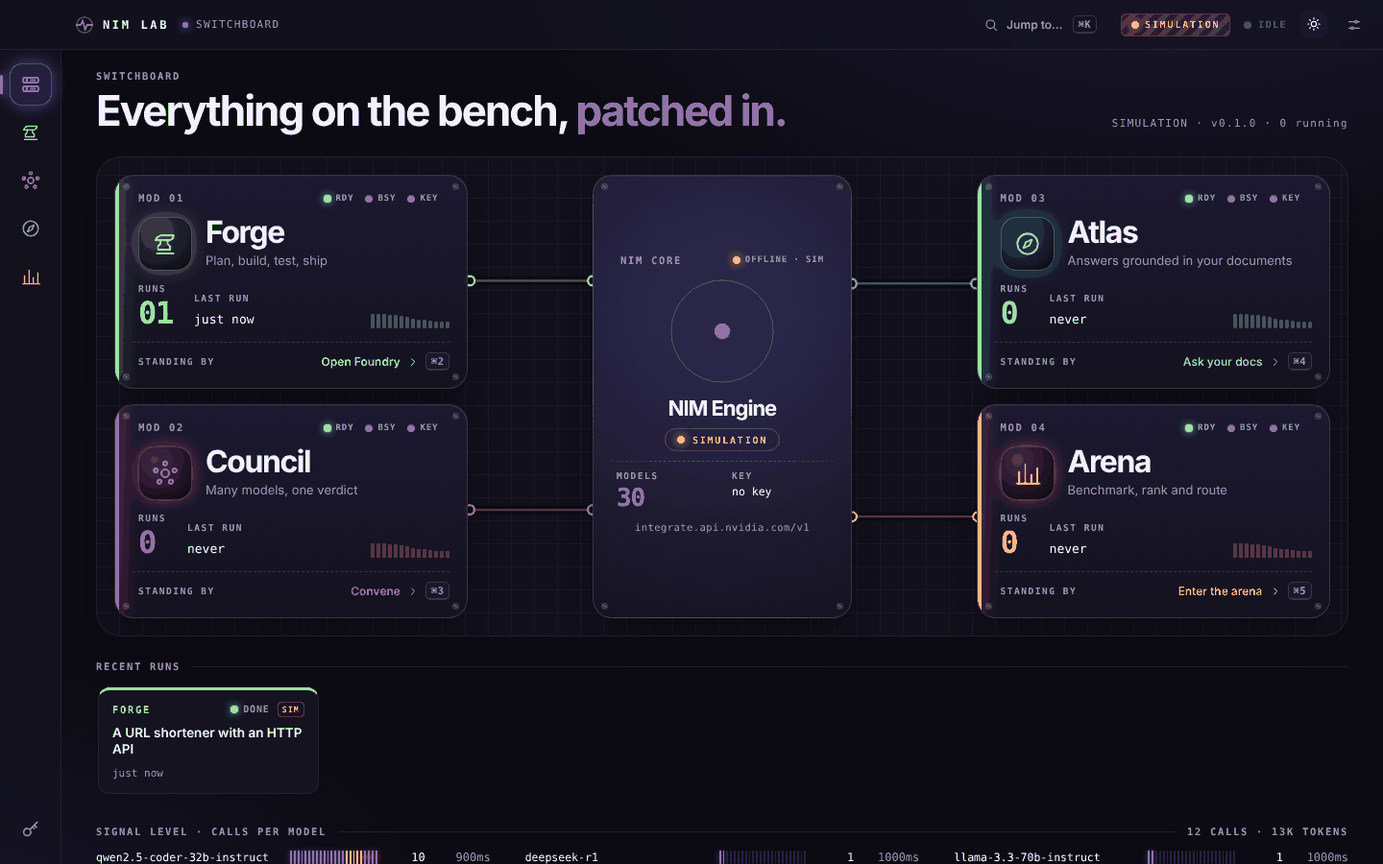
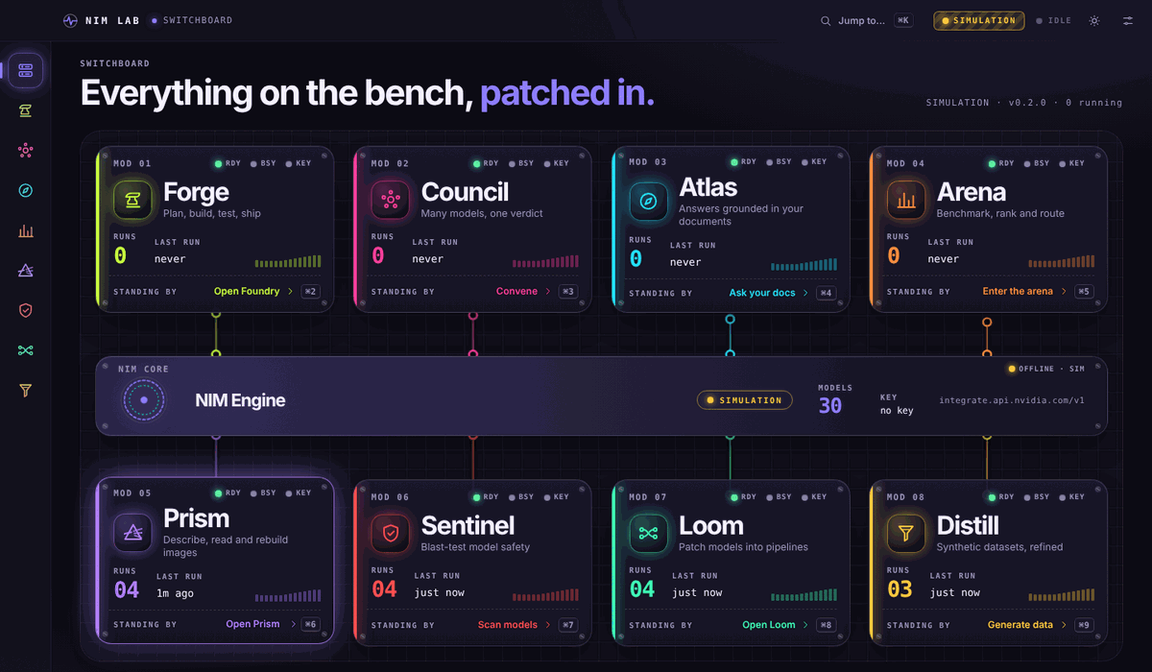
Release 0.2.0: Prism, Sentinel, Loom and Distill in NIM Lab Studio
Wire the four new tools into the CLI and Studio (routers, app
registry, rail, palette, two-tier switchboard), bundle their data
in wheels and the macOS app, and add CHANGELOG and README updates.

Claude-Session: https://claude.ai/code/session_0152s8zFZBhJaSSpKXr7uJ3b

diff --git a/src/nimlab/studio/web/css/screens/switchboard.css b/src/nimlab/studio/web/css/screens/switchboard.css
@@ -4,7 +4,7 @@
 .sb-h h1 em { font-style: normal; color: var(--c-core); }
 .sb-sub { font-size: 11px; letter-spacing: .12em; color: var(--dim); }
 .rack { position: relative; padding: 18px; border-radius: 26px; background: repeating-linear-gradient(0deg, transparent 0 23px, var(--grid-line) 23px 24px), repeating-linear-gradient(90deg, transparent 0 23px, var(--grid-line) 23px 24px), color-mix(in srgb, var(--panel) 60%, transparent); border: 1px solid var(--hair); }
-.rack-grid { position: relative; z-index: 2; display: grid; gap: 16px clamp(64px, 9vw, 140px); grid-template-columns: 1fr minmax(210px, 270px) 1fr; grid-template-areas: "a core c" "b core d"; }
+.rack-grid { position: relative; z-index: 2; display: grid; gap: clamp(40px, 6vh, 60px) clamp(14px, 1.6vw, 24px); grid-template-columns: repeat(4, minmax(0, 1fr)); grid-template-areas: "a b c d" "core core core core" "e f g h"; }
 .cables { position: absolute; inset: 0; width: 100%; height: 100%; z-index: 1; pointer-events: none; overflow: visible; }
 .cab-base { fill: none; stroke: var(--ink); stroke-width: 9; stroke-linecap: round; opacity: .85; }
 .cab-core { fill: none; stroke-width: 2.2; opacity: .5; stroke-linecap: round; }
@@ -13,7 +13,7 @@
 @keyframes flow { to { stroke-dashoffset: -50; } }
 .plug { fill: var(--ink); stroke-width: 2.5; }
 
-.module { --pad: 18px; position: relative; text-align: left; display: grid; gap: 14px; padding: var(--pad); border-radius: 20px; color: var(--text); background: linear-gradient(180deg, color-mix(in srgb, var(--raised) 94%, transparent), color-mix(in srgb, var(--panel) 96%, transparent)); border: 1px solid var(--hair-2); box-shadow: var(--shadow), 0 0 0 0 var(--accent); transition: transform .45s var(--ease-spring), box-shadow .3s, border-color .3s; overflow: hidden; }
+.module { --pad: 14px 16px; position: relative; text-align: left; display: grid; gap: 10px; padding: var(--pad); border-radius: 20px; color: var(--text); background: linear-gradient(180deg, color-mix(in srgb, var(--raised) 94%, transparent), color-mix(in srgb, var(--panel) 96%, transparent)); border: 1px solid var(--hair-2); box-shadow: var(--shadow), 0 0 0 0 var(--accent); transition: transform .45s var(--ease-spring), box-shadow .3s, border-color .3s; overflow: hidden; }
 .module::before { content: ""; position: absolute; left: 0; top: 0; bottom: 0; width: 4px; background: var(--accent); box-shadow: 0 0 18px var(--accent); }
 .module:hover { transform: translateY(-3px); border-color: color-mix(in srgb, var(--accent) 70%, var(--hair-2)); box-shadow: var(--shadow), 0 0 40px -10px var(--accent); }
 .module:active { transform: translateY(0) scale(.99); }
@@ -21,34 +21,34 @@
 .m-top { display: flex; justify-content: space-between; align-items: center; padding: 0 12px 0 6px; }
 .leds { display: flex; gap: 12px; } .lg { display: inline-flex; gap: 5px; align-items: center; } .lg .label { font-size: 9px; letter-spacing: .1em; }
 .m-main { display: flex; gap: 14px; align-items: center; padding-left: 6px; }
-.bezel { width: 56px; height: 56px; border-radius: 16px; display: grid; place-items: center; color: var(--accent); flex: none; background: radial-gradient(circle at 30% 25%, color-mix(in srgb, var(--accent) 22%, var(--raised)), var(--ink)); box-shadow: inset 0 0 0 1px color-mix(in srgb, var(--accent) 45%, transparent), inset 0 -6px 12px rgba(0,0,0,.25), 0 0 20px -6px var(--accent); }
-.bezel svg { width: 30px; height: 30px; }
+.bezel { width: 48px; height: 48px; border-radius: 14px; display: grid; place-items: center; color: var(--accent); flex: none; background: radial-gradient(circle at 30% 25%, color-mix(in srgb, var(--accent) 22%, var(--raised)), var(--ink)); box-shadow: inset 0 0 0 1px color-mix(in srgb, var(--accent) 45%, transparent), inset 0 -6px 12px rgba(0,0,0,.25), 0 0 20px -6px var(--accent); }
+.bezel svg { width: 27px; height: 27px; }
 .module h2 { font: 700 clamp(24px, 2.4vw, 32px)/1 var(--font-ui); letter-spacing: -.045em; }
-.module p { color: var(--dim); font-size: 13px; margin-top: 4px; }
+.module p { color: var(--dim); font-size: 12.5px; margin-top: 3px; line-height: 1.3; }
 .m-stats { display: grid; grid-template-columns: auto auto 1fr; gap: 22px; align-items: end; padding-left: 6px; }
 .m-stats .label { display: block; margin-bottom: 5px; font-size: 9.5px; }
 .m-stats .num { font-size: 13px; }
-.num.big { font-size: 32px; font-weight: 700; line-height: 1; letter-spacing: -.04em; color: var(--accent); }
+.num.big { font-size: 28px; font-weight: 700; line-height: 1; letter-spacing: -.04em; color: var(--accent); }
 .m-stats .vu { justify-self: end; }
-.m-foot { display: flex; justify-content: space-between; align-items: center; padding: 10px 0 0 6px; border-top: 1px dashed var(--hair-2); }
+.m-foot { display: flex; justify-content: space-between; align-items: center; padding: 8px 0 0 6px; border-top: 1px dashed var(--hair-2); }
 .m-foot .label { font-size: 9.5px; }
 .go { display: inline-flex; gap: 6px; align-items: center; font-size: 12px; font-weight: 600; color: var(--accent); }
 .go svg { width: 14px; height: 14px; transition: transform .3s var(--ease-spring); } .module:hover .go svg { transform: translateX(4px); }
 .module .jack { display: none; }
 
-.module.core { grid-area: core; align-content: center; justify-items: center; text-align: center; gap: 10px; --accent: var(--c-core); padding-bottom: 22px; background: radial-gradient(circle at 50% 30%, color-mix(in srgb, var(--c-core) 16%, var(--raised)), var(--panel)); }
+.module.core { grid-area: core; display: flex; flex-wrap: wrap; align-items: center; justify-content: space-between; gap: 2px 32px; --accent: var(--c-core); padding: 10px 28px 12px; text-align: left; background: radial-gradient(circle at 12% 50%, color-mix(in srgb, var(--c-core) 16%, var(--raised)), var(--panel)); }
 .module.core::before { display: none; }
-.module.core .m-top { width: 100%; padding: 0 10px; }
-.core-dial { width: 118px; height: 118px; color: var(--text); filter: drop-shadow(0 0 18px color-mix(in srgb, var(--c-core) 55%, transparent)); }
-.core-dial .ring { transform-origin: 60px 60px; animation: spin 16s linear infinite; } .core-dial .r2 { animation-duration: 9s; animation-direction: reverse; }
+.module.core .m-top { width: 100%; padding: 0; }
+.core-dial { width: 64px; height: 64px; color: var(--text); filter: drop-shadow(0 0 14px color-mix(in srgb, var(--c-core) 55%, transparent)); }
+.core-dial .ring { opacity: 1; transform-origin: 60px 60px; animation: spin 16s linear infinite; } .core-dial .r2 { animation-duration: 9s; animation-direction: reverse; }
 @keyframes spin { to { transform: rotate(360deg); } }
-.module.core h2 { font-size: 22px; }
+.module.core h2 { font-size: 22px; margin-right: auto; }
 .mode { display: inline-flex; align-items: center; gap: 8px; height: 24px; padding: 0 12px; border-radius: 999px; font: 700 10px var(--font-mono); letter-spacing: .18em; border: 1px solid var(--hair-2); }
 .mode.live { color: var(--ok); border-color: color-mix(in srgb, var(--ok) 50%, transparent); } .mode.sim { color: var(--warn); border-color: color-mix(in srgb, var(--warn) 50%, transparent); }
-.core-stats { display: grid; grid-template-columns: 1fr 1fr; gap: 20px; width: 100%; text-align: left; padding: 10px 6px 0; border-top: 1px dashed var(--hair-2); }
+.core-stats { display: flex; gap: 34px; align-items: flex-end; }
 .core-stats .label { display: block; margin-bottom: 4px; font-size: 9.5px; } .core-stats .num.big { font-size: 26px; color: var(--c-core); }
-.module.core > .mono { font-size: 10.5px; letter-spacing: .04em; }
-.core-stats code { font-size: 11.5px; color: var(--text); word-break: break-all; line-height: 1.3; display: block; }
+.module.core > .mono { font-size: 10.5px; letter-spacing: .04em; max-width: 240px; overflow: hidden; text-overflow: ellipsis; white-space: nowrap; }
+.core-stats code { font-size: 11.5px; color: var(--text); line-height: 1.3; display: block; }
 
 .sb-sec { display: grid; gap: 12px; }
 .sec-h { display: flex; align-items: center; gap: 12px; } .sec-h .rule { flex: 1; height: 1px; background: var(--hair); }
@@ -67,13 +67,22 @@
 .vu-bar i { border-radius: 2px; background: var(--raised-2); transition: background .3s var(--d), box-shadow .3s var(--d); }
 .vu-bar i.on { background: var(--c-core); box-shadow: 0 0 6px color-mix(in srgb, var(--c-core) 60%, transparent); } .vu-bar i.mid { background: var(--c-arena); box-shadow: 0 0 6px color-mix(in srgb, var(--c-arena) 60%, transparent); } .vu-bar i.hot { background: var(--c-council); box-shadow: 0 0 6px color-mix(in srgb, var(--c-council) 70%, transparent); }
 
+@media (max-width: 1280px) {
+  .module { --pad: 14px; gap: 11px; }
+  .bezel { width: 46px; height: 46px; border-radius: 14px; } .bezel svg { width: 26px; height: 26px; }
+  .module p { font-size: 12px; } .m-stats { gap: 16px; } .m-stats .vu { display: none; } .num.big { font-size: 26px; }
+  .m-top .leds .lg .label { display: none; } .go kbd { display: none; }
+}
 @media (max-width: 1060px) {
-  .rack-grid { grid-template-columns: 1fr 1fr; grid-template-areas: "core core" "a c" "b d"; row-gap: 56px; column-gap: 18px; }
-  .module.core { display: flex; flex-wrap: wrap; align-items: center; justify-content: space-between; gap: 8px 28px; padding: 14px 22px; text-align: left; }
-  .module.core .m-top { width: 100%; order: -1; padding: 0; } .module.core .core-dial { width: 60px; height: 60px; }
-  .module.core h2 { margin-right: auto; } .core-stats { width: auto; display: flex; gap: 30px; border: 0; padding: 0; } .module.core > .mono { display: none; }
+  .m-main { gap: 10px; } .module h2 { font-size: 21px; } .module p { display: none; } .m-stats { grid-template-columns: auto 1fr; } .m-foot .label { display: none; } .m-foot { justify-content: flex-end; }
+  .rack { padding: 12px; } .rack-grid { column-gap: 12px; } .m-top { padding: 0 4px 0 2px; } .m-main, .m-stats, .m-foot { padding-left: 4px; }
+}
+@media (max-width: 900px) {
+  .rack-grid { grid-template-columns: 1fr 1fr; grid-template-areas: "a b" "c d" "core core" "e f" "g h"; row-gap: 16px; column-gap: 14px; }
+  .module.core { margin: 10px 0; } .cables { display: none; }
 }
 @media (max-width: 700px) {
-  .rack-grid { grid-template-columns: 1fr; grid-template-areas: "core" "a" "b" "c" "d"; row-gap: 40px; }
-  .cables { display: none; } .usage { grid-template-columns: 1fr; } .vu-row { grid-template-columns: 100px 1fr 34px; } .vu-row .num.dim { display: none; }
+  .rack-grid { grid-template-columns: 1fr; grid-template-areas: "core" "a" "b" "c" "d" "e" "f" "g" "h"; row-gap: 14px; }
+  .module p { display: block; } .module.core .core-dial { width: 48px; height: 48px; } .module.core > .mono { display: none; }
+  .usage { grid-template-columns: 1fr; } .vu-row { grid-template-columns: 100px 1fr 34px; } .vu-row .num.dim { display: none; }
 }

diff --git a/src/nimlab/studio/web/js/screens/switchboard.js b/src/nimlab/studio/web/js/screens/switchboard.js
@@ -1,4 +1,4 @@
-// Switchboard: four modules + the NIM Core, patched together with live cables.
+// Switchboard: eight modules in two tiers around the NIM Core, patched together with live cables.
 import { h, clear, ago, fmtNum, shortModel, pop, reduced, clamp } from '../util.js';
 import { icon } from '../icons.js';
 import { store, on, go, api, appStatus, isSim, refresh } from '../app.js';
@@ -8,6 +8,10 @@ const MODS = [
   { id: 'council', name: 'Council', route: 'council', n: '02', key: '3', tag: 'Many models, one verdict', verb: 'Convene', area: 'b' },
   { id: 'atlas', name: 'Atlas', route: 'atlas', n: '03', key: '4', tag: 'Answers grounded in your documents', verb: 'Ask your docs', area: 'c' },
   { id: 'arena', name: 'Arena', route: 'arena', n: '04', key: '5', tag: 'Benchmark, rank and route', verb: 'Enter the arena', area: 'd' },
+  { id: 'prism', name: 'Prism', route: 'prism', n: '05', key: '6', tag: 'Describe, read and rebuild images', verb: 'Open Prism', area: 'e' },
+  { id: 'sentinel', name: 'Sentinel', route: 'sentinel', n: '06', key: '7', tag: 'Blast-test model safety', verb: 'Scan models', area: 'f' },
+  { id: 'loom', name: 'Loom', route: 'loom', n: '07', key: '8', tag: 'Patch models into pipelines', verb: 'Open Loom', area: 'g' },
+  { id: 'distill', name: 'Distill', route: 'distill', n: '08', key: '9', tag: 'Synthetic datasets, refined', verb: 'Generate data', area: 'h' },
 ];
 
 function normUsage(u) {
@@ -107,19 +111,16 @@ export function mount(el) {
   // ---- cables ----
   function cables() {
     const rr = rack.getBoundingClientRect(); if (!rr.width) return;
-    const cr = core.getBoundingClientRect(); const P = (r) => r;
+    const cr = core.getBoundingClientRect();
     svg.setAttribute('viewBox', `0 0 ${rr.width} ${rr.height}`); clear(svg);
     const defs = h('defs'); svg.append(defs);
     for (const { m, card } of Object.values(mods)) {
       const mr = card.getBoundingClientRect(), mx = mr.left - rr.left + mr.width / 2, my = mr.top - rr.top + mr.height / 2;
       const cl = cr.left - rr.left, cr_ = cl + cr.width, ct = cr.top - rr.top, cb = ct + cr.height;
-      let a, b, d;
-      if (mx < cl - 8 || mx > cr_ + 8) { // beside core
-        const left = mx < cl; a = [left ? mr.right - rr.left : mr.left - rr.left, my]; b = [left ? cl : cr_, clamp(my, ct + 40, cb - 40)];
-        const k = Math.abs(b[0] - a[0]) * .5; d = `M${a[0]} ${a[1]} C${a[0] + (left ? k : -k)} ${a[1]} ${b[0] + (left ? -k : k)} ${b[1]} ${b[0]} ${b[1]}`;
-      } else { // stacked under core
-        a = [mx, mr.top - rr.top]; b = [clamp(mx, cl + 30, cr_ - 30), cb]; const k = Math.abs(a[1] - b[1]) * .5; d = `M${a[0]} ${a[1]} C${a[0]} ${a[1] - k} ${b[0]} ${b[1] + k} ${b[0]} ${b[1]}`;
-      }
+      const above = my < (ct + cb) / 2; // top-tier modules plug into the core's top edge, bottom tier into its bottom edge
+      const a = [mx, above ? mr.bottom - rr.top : mr.top - rr.top], b = [clamp(mx, cl + 36, cr_ - 36), above ? ct : cb];
+      const k = Math.abs(b[1] - a[1]) * .55;
+      const d = `M${a[0]} ${a[1]} C${a[0]} ${a[1] + (above ? k : -k)} ${b[0]} ${b[1] + (above ? -k : k)} ${b[0]} ${b[1]}`;
       const busy = card.classList.contains('busy'), col = `var(--c-${m.id})`;
       svg.append(h('path.cab-base', { d }), h('path.cab-core', { d, stroke: col }), h('path.cab-flow', { d, stroke: col, class: busy ? 'on' : '' }));
       for (const [x, y] of [a, b]) svg.append(h('circle.plug', { cx: x, cy: y, r: 5, stroke: col }));

diff --git a/src/nimlab/studio/web/js/components/palette.js b/src/nimlab/studio/web/js/components/palette.js
@@ -13,6 +13,10 @@ function items() {
     { t: 'Ask Atlas…', s: 'Atlas', kw: 'ask', ic: 'atlas', j: A('atlas'), run: (q) => { setPrefill('atlas', q); go('atlas'); } },
     { t: 'Convene council…', s: 'Council', kw: 'convene', ic: 'council', j: A('council'), run: (q) => { setPrefill('council', q); go('council'); } },
     { t: 'Route prompt…', s: 'Arena', kw: 'route', ic: 'route', j: A('arena'), run: (q) => { setPrefill('arena', q); go('arena'); } },
+    { t: 'Analyze image…', s: 'Prism', kw: 'analyze', ic: 'prism', j: A('prism'), run: () => go('prism') },
+    { t: 'Run safety scan…', s: 'Sentinel', kw: 'scan', ic: 'sentinel', j: A('sentinel'), run: () => go('sentinel') },
+    { t: 'New pipeline…', s: 'Loom', kw: 'pipeline', ic: 'loom', j: A('loom'), run: () => go('loom') },
+    { t: 'Generate dataset…', s: 'Distill', kw: 'generate', ic: 'distill', j: A('distill'), run: () => go('distill') },
     { t: 'Settings', s: '⌘,', ic: 'settings', j: 'var(--c-core)', run: () => import('../screens/settings.js').then((m) => m.openSettings()) },
     { t: 'Toggle theme', s: 'ink / paper', ic: 'sun', j: 'var(--c-core)', run: toggleTheme },
     ...APPS.map((a) => ({ t: `Go to ${a.name}`, s: '⌘' + a.key, ic: a.icon, j: `var(--c-${a.app || 'core'})`, run: () => go(a.id) })),
@@ -36,7 +40,7 @@ export function openPalette() {
   if (open) return closePalette();
   const prev = document.activeElement;
   const all = items(); let sel = 0, shown = [];
-  const input = h('input', { type: 'text', placeholder: 'Plug into…  build, ask, convene, route, settings', 'aria-label': 'Command palette', autocomplete: 'off', spellcheck: 'false', role: 'combobox', 'aria-expanded': 'true', 'aria-controls': 'pal-list' });
+  const input = h('input', { type: 'text', placeholder: 'Plug into…  build, ask, convene, route, analyze, scan, settings', 'aria-label': 'Command palette', autocomplete: 'off', spellcheck: 'false', role: 'combobox', 'aria-expanded': 'true', 'aria-controls': 'pal-list' });
   const listEl = h('div.palette-list#pal-list', { role: 'listbox' });
   const scrim = h('div.scrim', { on: { mousedown: closePalette } });
   const box = h('div.palette', { role: 'dialog', 'aria-modal': 'true', 'aria-label': 'Command palette' },

diff --git a/src/nimlab/studio/web/js/icons.js b/src/nimlab/studio/web/js/icons.js
@@ -6,6 +6,10 @@ const P = {
   council: '<circle cx="12" cy="12" r="3.2"/><circle cx="12" cy="3.8" r="1.6"/><circle cx="19.8" cy="9.6" r="1.6"/><circle cx="16.8" cy="19" r="1.6"/><circle cx="7.2" cy="19" r="1.6"/><circle cx="4.2" cy="9.6" r="1.6"/>',
   atlas: '<circle cx="12" cy="12" r="8.5"/><path d="m15.5 8.5-2 5-5 2 2-5 5-2Z"/>',
   arena: '<path d="M5 20V11M10 20V5M15 20v-7M20 20V8"/><path d="M3 20.5h19"/>',
+  prism: '<path d="M12 3.5 21 19.5H3Z"/><path d="M2.5 13.5 10 11.8"/><path d="m12.6 10.6 8.9-2.6M13.2 13l8.3-.6M13.6 15.4l7.4 2.4" opacity=".75"/>',
+  sentinel: '<path d="M12 3 4.5 6v5.5c0 4.6 3.1 8 7.5 9.5 4.4-1.5 7.5-4.9 7.5-9.5V6Z"/><path d="m9 12 2.2 2.2L15.5 10"/>',
+  loom: '<circle cx="4.5" cy="8" r="1.8"/><circle cx="19.5" cy="16" r="1.8"/><path d="M6.3 8C12 8 12 16 17.7 16"/><circle cx="4.5" cy="16" r="1.8"/><circle cx="19.5" cy="8" r="1.8"/><path d="M6.3 16C12 16 12 8 17.7 8"/>',
+  distill: '<path d="M4.5 4.5h15L13.5 12v6.5l-3 2V12Z"/><path d="M7.5 8h9" opacity=".7"/>',
   settings: '<path d="M4 7h9M17 7h3M4 17h3M11 17h9"/><circle cx="15" cy="7" r="2"/><circle cx="9" cy="17" r="2"/>',
   search: '<circle cx="11" cy="11" r="6.5"/><path d="m16 16 4.5 4.5"/>',
   paste: '<rect x="6" y="5" width="12" height="16" rx="2"/><path d="M9 5V4a1 1 0 0 1 1-1h4a1 1 0 0 1 1 1v1"/><path d="M9.5 12h5M9.5 15.5h3"/>',
@@ -37,4 +41,4 @@ export function icon(name, cls = '') {
   return s;
 }
 export const iconHTML = (name) => icon(name).outerHTML;
-export const APP_ICON = { forge: 'forge', council: 'council', atlas: 'atlas', arena: 'arena', switchboard: 'switchboard' };
+export const APP_ICON = { forge: 'forge', council: 'council', atlas: 'atlas', arena: 'arena', prism: 'prism', sentinel: 'sentinel', loom: 'loom', distill: 'distill', switchboard: 'switchboard' };

diff --git a/src/nimlab/studio/web/css/base.css b/src/nimlab/studio/web/css/base.css
@@ -58,7 +58,8 @@ button, a, [role=button], summary { cursor: pointer; }
 .pywebview-drag-region { -webkit-app-region: drag; app-region: drag; }
 
 .rail { grid-area: rail; display: flex; flex-direction: column; align-items: center; gap: 6px; padding: 14px 0; border-right: 1px solid var(--hair); background: color-mix(in srgb, var(--panel) 70%, transparent); z-index: 20; }
-.rail .sp { flex: 1; }
+.rail .sp { flex: 1; min-height: 4px; }
+@media (min-width: 761px) and (max-height: 700px) { .rail { gap: 3px; padding: 8px 0; } .rail-btn { width: 40px; height: 40px; } }
 .rail-btn { position: relative; width: 44px; height: 44px; border-radius: 13px; display: grid; place-items: center; color: color-mix(in srgb, var(--accent) 62%, var(--dim)); transition: color .2s, background .2s, transform .35s var(--ease-spring); }
 .rail-btn svg { width: 22px; height: 22px; }
 .rail-btn:hover { color: var(--accent); background: color-mix(in srgb, var(--accent) 10%, transparent); transform: translateY(-1px) scale(1.06); }
@@ -82,7 +83,7 @@ kbd { font: 600 10.5px var(--font-mono); padding: 2px 5px; border-radius: 5px; b
 @media (max-width: 760px) {
   #app { grid-template-columns: 1fr; grid-template-rows: var(--titlebar) 1fr 58px; grid-template-areas: "title" "main" "rail"; }
   .rail { flex-direction: row; justify-content: space-around; padding: 6px; border-right: 0; border-top: 1px solid var(--hair); }
-  .rail .sp { display: none; }
+  .rail .sp { display: none; } .rail-btn { width: 38px; height: 40px; }
   .rail-btn[aria-current=page]::before { left: 12px; right: 12px; top: -7px; bottom: auto; width: auto; height: 3px; }
   .rail-btn .tip { display: none; }
   .titlebar { padding-left: 78px; gap: 8px; }

diff --git a/src/nimlab/studio/web/js/app.js b/src/nimlab/studio/web/js/app.js
@@ -16,6 +16,10 @@ export const APPS = [
   { id: 'council', name: 'Council', key: '3', cls: 'app-council', icon: 'council', app: 'council', hint: 'Many models, one verdict' },
   { id: 'atlas', name: 'Atlas', key: '4', cls: 'app-atlas', icon: 'atlas', app: 'atlas', hint: 'Ask your documents' },
   { id: 'arena', name: 'Arena', key: '5', cls: 'app-arena', icon: 'arena', app: 'arena', hint: 'Rank and route models' },
+  { id: 'prism', name: 'Prism', key: '6', cls: 'app-prism', icon: 'prism', app: 'prism', hint: 'Put an image on the light table' },
+  { id: 'sentinel', name: 'Sentinel', key: '7', cls: 'app-sentinel', icon: 'sentinel', app: 'sentinel', hint: 'Blast-test model safety' },
+  { id: 'loom', name: 'Loom', key: '8', cls: 'app-loom', icon: 'loom', app: 'loom', hint: 'Patch models into pipelines' },
+  { id: 'distill', name: 'Distill', key: '9', cls: 'app-distill', icon: 'distill', app: 'distill', hint: 'Synthetic datasets, refined' },
 ];
 export const appMeta = (id) => APPS.find((a) => a.id === id || a.app === id);
 
@@ -130,7 +134,7 @@ function keys() {
     const mod = e.metaKey || e.ctrlKey; if (!mod || e.altKey) return;
     if (e.key === 'k') { e.preventDefault(); import('./components/palette.js').then((m) => m.openPalette()); }
     else if (e.key === ',') { e.preventDefault(); import('./screens/settings.js').then((m) => m.openSettings()); }
-    else if (/^[1-5]$/.test(e.key)) { e.preventDefault(); go(APPS[+e.key - 1].id); }
+    else if (/^[1-9]$/.test(e.key)) { e.preventDefault(); go(APPS[+e.key - 1].id); }
   });
   addEventListener('hashchange', render);
 }

diff --git a/src/nimlab/studio/web/css/tokens.css b/src/nimlab/studio/web/css/tokens.css
@@ -15,6 +15,10 @@
   --c-atlas: #22E1FF;
   --c-forge: #C6FF3D;
   --c-arena: #FF8A3D;
+  --c-prism: #B07CFF;
+  --c-sentinel: #FF4D4D;
+  --c-loom: #3DFFB4;
+  --c-distill: #FFC83D;
   --c-core: #8B7BFF;
   --on-signal: #0B0A12;
   --ok: #5CF2A0;
@@ -54,6 +58,10 @@
   --c-atlas: #00708F;
   --c-forge: #4B7300;
   --c-arena: #B34700;
+  --c-prism: #6A3FD0;
+  --c-sentinel: #C62828;
+  --c-loom: #00855A;
+  --c-distill: #8A5F00;
   --c-core: #5340D6;
   --on-signal: #FFFFFF;
   --ok: #0B7A43;
@@ -73,6 +81,7 @@
     --hair: rgba(30,20,60,.11); --hair-2: rgba(30,20,60,.2);
     --text: #1A1630; --dim: #5B5675; --faint: #665F83;
     --c-council: #C0106B; --c-atlas: #00708F; --c-forge: #4B7300; --c-arena: #B34700; --c-core: #5340D6;
+    --c-prism: #6A3FD0; --c-sentinel: #C62828; --c-loom: #00855A; --c-distill: #8A5F00;
     --on-signal: #FFFFFF; --ok: #0B7A43; --bad: #C41E3A; --warn: #8A5F00;
     --glass: rgba(251,248,241,.78); --glass-strong: rgba(251,248,241,.94);
     --shadow: 0 1px 0 rgba(255,255,255,.9) inset, 0 14px 30px -18px rgba(40,25,90,.35);
@@ -85,3 +94,7 @@
 .app-forge   { --accent: var(--c-forge); }
 .app-arena   { --accent: var(--c-arena); }
 .app-core    { --accent: var(--c-core); }
+.app-prism   { --accent: var(--c-prism); }
+.app-sentinel { --accent: var(--c-sentinel); }
+.app-loom    { --accent: var(--c-loom); }
+.app-distill { --accent: var(--c-distill); }

diff --git a/src/nimlab/studio/web/js/screens/settings.js b/src/nimlab/studio/web/js/screens/settings.js
@@ -60,8 +60,8 @@ export function openSettings() {
   const search = h('input.field.sm', { type: 'search', placeholder: 'Filter models…', 'aria-label': 'Filter models', on: { input: debounce(() => { needle = search.value.trim().toLowerCase(); paintModels(); }, 80) } });
   models.append(h('div.label', 'Model catalog'), h('div.mhead', search, chips), list);
   about.append(h('div.label', 'About'), h('div.kv', h('span', 'NIM Lab Studio'), h('code.mono', 'v' + (store.status?.version || '?'))),
-    h('div.keys', [['⌘K', 'Command palette'], ['⌘1–5', 'Switch module'], ['⌘,', 'Settings'], ['⌘↵', 'Run / send']].map(([k, t]) => h('span', h('kbd', k), t))),
-    h('p.fine', 'Four apps on NVIDIA NIM: Council, Atlas, Forge, Arena. Everything here runs on your machine.'));
+    h('div.keys', [['⌘K', 'Command palette'], ['⌘1–9', 'Switch module'], ['⌘,', 'Settings'], ['⌘↵', 'Run / send']].map(([k, t]) => h('span', h('kbd', k), t))),
+    h('p.fine', 'Eight apps on NVIDIA NIM: Council, Atlas, Forge, Arena, Prism, Sentinel, Loom, Distill. Everything here runs on your machine.'));
   paintKey(); paintEngine(); paintLook();
   if (!store.models.length) refresh(['models']).then(paintModels); paintModels();
   offs.push(on('status', () => { paintEngine(); }));

diff --git a/src/nimlab/studio/web/js/screens/loom.js b/src/nimlab/studio/web/js/screens/loom.js
@@ -340,8 +340,9 @@ export async function mount(el, params = {}) {
     const b = boundsOf(); const r = ui.canvas.getBoundingClientRect();
     if (!b || r.width < 50) { view = { x: 40, y: 30, z: 1 }; return applyView(); }
     const pad = 56, bw = b.x1 - b.x0, bh = b.y1 - b.y0;
-    const z = clamp(Math.min((r.width - pad * 2) / bw, (r.height - pad * 2) / bh), ZMIN, 1.15);
-    const next = { z, x: (r.width - bw * z) / 2 - b.x0 * z, y: (r.height - bh * z) / 2 - b.y0 * z };
+    // On a narrow canvas a whole-graph fit would be unreadably small: keep a legible floor and anchor to the left (pan for the rest).
+    const z = clamp(Math.max(Math.min((r.width - pad * 2) / bw, (r.height - pad * 2) / bh), 0.4), ZMIN, 1.15);
+    const next = { z, x: bw * z + pad * 2 > r.width ? pad / 2 - b.x0 * z : (r.width - bw * z) / 2 - b.x0 * z, y: (r.height - bh * z) / 2 - b.y0 * z };
     if (animate && !reduced()) { ui.world.classList.add('glide'); setTimeout(() => ui.world.classList.remove('glide'), 380); }
     view.x = next.x; view.y = next.y; view.z = next.z; applyView();
   }

diff --git a/src/nimlab/studio/web/index.html b/src/nimlab/studio/web/index.html
@@ -15,6 +15,10 @@
 <link rel="stylesheet" href="css/screens/council.css">
 <link rel="stylesheet" href="css/screens/atlas.css">
 <link rel="stylesheet" href="css/screens/arena.css">
+<link rel="stylesheet" href="css/screens/prism.css">
+<link rel="stylesheet" href="css/screens/sentinel.css">
+<link rel="stylesheet" href="css/screens/loom.css">
+<link rel="stylesheet" href="css/screens/distill.css">
 <link rel="stylesheet" href="css/screens/settings.css">
 <script>/* apply stored theme before first paint */try{var t=localStorage.getItem('nimlab.theme');if(t==='light'||t==='dark')document.documentElement.dataset.theme=t}catch(e){}</script>
 </head>

diff --git a/src/nimlab/studio/web/css/screens/loom.css b/src/nimlab/studio/web/css/screens/loom.css
@@ -134,3 +134,5 @@
 @media (max-width: 1180px) { .lm { grid-template-columns: 196px minmax(0, 1fr) 280px; } .lm-title { max-width: 180px; } .lm-btn span { display: none; } .lm-run span { display: inline; } }
 @media (max-width: 900px) { .lm { grid-template-columns: minmax(0, 1fr); grid-template-rows: 48px minmax(0, 1fr) 0 0; grid-template-areas: "bar" "canvas" "pal" "insp"; } .lm-palette, .lm-insp { display: none; } }
 .lm-node:focus-visible { outline: 2px solid var(--cat); outline-offset: 3px; border-radius: 12px; }
+
+@media (max-width: 1100px) { .lm { grid-template-columns: 184px minmax(0, 1fr) 252px; } }

diff --git a/src/nimlab/cli.py b/src/nimlab/cli.py
@@ -1,7 +1,8 @@
 """Root ``nimlab`` command line: built-ins (doctor, models) plus auto-discovered app plugins.
 
 Plugin contract: ``nimlab.<name>.cli`` exposes ``app`` (a ``typer.Typer``) for each of
-``council``, ``atlas``, ``forge``, ``arena`` and ``studio``. Plugin CLI modules must NOT import
+``council``, ``atlas``, ``forge``, ``arena``, ``prism``, ``sentinel``, ``loom``,
+``distill`` and ``studio``. Plugin CLI modules must NOT import
 ``nimlab.cli``
 (it imports them while it is being initialised).
 """
@@ -28,11 +29,24 @@ from .core.errors import NIMError
 from .core.logging import configure_logging, get_console
 from .core.registry import Role, default_registry
 
-PLUGIN_NAMES: tuple[str, ...] = ("council", "atlas", "forge", "arena", "studio")
+PLUGIN_NAMES: tuple[str, ...] = (
+    "council",
+    "atlas",
+    "forge",
+    "arena",
+    "prism",
+    "sentinel",
+    "loom",
+    "distill",
+    "studio",
+)
 
 app = typer.Typer(
     name="nimlab",
-    help="NIM Lab: council, atlas, forge and arena on NVIDIA NIM. Use --mock to run offline.",
+    help=(
+        "NIM Lab: council, atlas, forge, arena, prism, sentinel, loom and distill on NVIDIA NIM. "
+        "Use --mock to run offline."
+    ),
     no_args_is_help=True,
     add_completion=False,
 )
